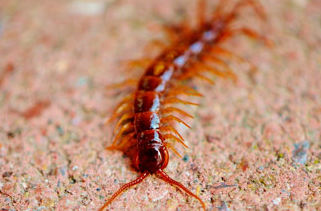
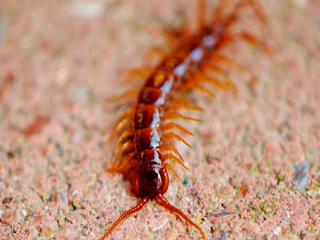
Added clickable images on particular_avistamiento
-When clicking an image, it's displayed bigger on a better resolution.

Added example images

diff --git a/scripts/particular_avistamiento.js b/scripts/particular_avistamiento.js
@@ -1,28 +1,28 @@
 const temp_main_table_info = {  // For some reason I have to display the table as there were more than 1 avistamiento,
     // but with the same date, I didn't understand that requirement but well, 'avistamientos' is a list to achieve that.
     "row1":{"fecha":"2021-03-29 13:21", "region":"Región Metropolitana de Santiago", "comuna":"La Florida", "sector":"Vicuña Mackena",
-        "nombre":"Kuroba Kaito", "email":"j", "celular":"+56 9 1234 4567",
+        "nombre":"Kuroba Kaito", "email":"kuroba@kaito.kid", "celular":"+56 9 1234 4567",
         "avistamientos":[
-            {"tipo":"insecto", "estado":"vivo", "fotos":[]}
+            {"tipo":"insecto", "estado":"vivo", "fotos":["../images/example/chinita.PNG"]}
         ]},
     "row2":{"fecha":"2021-03-27 10:03", "region":"Región Metropolitana de Santiago", "comuna":"Providencia", "sector":"Plaza Italia",
-        "nombre":"Edogawa Conan", "email":"j", "celular":"+56 9 2345 5671",
+        "nombre":"Edogawa Conan", "email":"edogawa@conan.jp", "celular":"+56 9 2345 5671",
         "avistamientos":[
-            {"tipo":"arácnido", "estado":"vivo", "fotos":[]}
+            {"tipo":"arácnido", "estado":"vivo", "fotos":["../images/example/laquetengaña.PNG"]}
         ]},
     "row3":{"fecha":"2021-03-26 22:30", "region":"Región Metropolitana de Santiago", "comuna":"Santiago", "sector":"Parque Almagro",
-        "nombre":"Heiji Hattori", "email":"j", "celular":"+56 9 3456 6712",
+        "nombre":"Heiji Hattori", "email":"heiji@hattori.jp", "celular":"+56 9 3456 6712",
         "avistamientos":[
-            {"tipo":"insecto", "estado":"desconocido", "fotos":[]}
+            {"tipo":"insecto", "estado":"desconocido", "fotos":["../images/example/polisha.PNG"]}
         ]},
     "row4":{"fecha":"2021-03-24 21:53", "region":"Región Metropolitana de Santiago", "comuna":"Ñuñoa", "sector":"Plaza Ñuñoa",
         "nombre":"Vermouth", "email":"j", "celular":"+56 9 4567 7123",
         "avistamientos":[
-            {"tipo":"miriápodo", "estado":"vivo", "fotos":[]}]},
+            {"tipo":"miriápodo", "estado":"vivo", "fotos":["../images/example/100patas.PNG"]}]},
     "row5":{"fecha":"2021-03-24 19:30", "region":"Región Metropolitana de Santiago", "comuna":"Puente Alto", "sector":"Los Álamos",
-        "nombre":"Akai Shuichi", "email":"j", "celular":"+56 9 5671 2345",
+        "nombre":"Akai Shuichi", "email":"akai@shu.jp", "celular":"+56 9 5671 2345",
         "avistamientos":[
-            {"tipo":"insecto", "estado":"vivo", "fotos":[]}
+            {"tipo":"insecto", "estado":"vivo", "fotos":["../images/example/polishadeux.PNG"]}
         ]}
 }
 
@@ -33,7 +33,8 @@ function fill_document() {
     let sector = document.getElementById("sector");
     let tipo = document.getElementById("tipo");
     let estado = document.getElementById("estado");
-    let fotos = document.getElementById("fotos");
+    let fotos_txt = document.getElementById("fotos_text");
+    let fotos_row = document.getElementById("fotos");
     let nombre = document.getElementById("nombre");
     let email = document.getElementById("email");
     let celular = document.getElementById("celular");
@@ -49,13 +50,58 @@ function fill_document() {
     }
     tipo.append("Tipo: " + temp_main_table_info[id]['avistamientos'][0]['tipo']);
     estado.append("Estado: " + temp_main_table_info[id]['avistamientos'][0]['estado']);
-    fotos.append("Fotos: " + temp_main_table_info[id]['avistamientos'][0]['fotos']);
+    fotos_txt.append("Fotos: ");
+    for (let i=0; i < temp_main_table_info[id]['avistamientos'][0]['fotos'].length; i++) {
+        let img = document.createElement("img");
+            img.alt = "Imagen del avistamiento";
+            img.src = temp_main_table_info[id]['avistamientos'][0]['fotos'][i];
+            img.addEventListener('click', function (e) {
+                display_big_img(temp_main_table_info[id]['avistamientos'][0]['fotos'][i]);
+            })
+        fotos_row.append(img);
+    }
+
     nombre.append("Nombre: " + temp_main_table_info[id]['nombre']);
     email.append("Correo: " + temp_main_table_info[id]['email']);
     if (temp_main_table_info[id]['sector'] !== "") {
         celular.append("Celular: " + temp_main_table_info[id]['celular']);
     }
 
+}
+
+function display_big_img (src) {
+    let modal_environment = document.createElement("div");
+    modal_environment.className = "modal_environment";
+    modal_environment.id = "modal_big_photo";
+        let modal_img = document.createElement("img");
+            modal_img.alt = "Imagen del avistamiento grande";
+            modal_img.className = "center";
+            let i = src.length-1;
+            while (i >= 0) {
+                if (src[i] === '.') {
+                    modal_img.src =
+                        src.substr(0, i)
+                        + "-big"
+                        + src.substr(i, src.length);  // "file.ext" -> "file-big.ext"
+                    break;
+                }
+                i--;
+            }
+        let close = document.createElement("button");
+            close.type = "button";
+            close.append("cerrar");
+            close.addEventListener('click', function () {
+                document.body.removeChild(modal_environment);
+            });
+            modal_environment.addEventListener('click', function close_modal_img (e) {
+                if (!modal_img.contains(e.target)) {
+                    // click outside the img
+                    document.body.removeChild(modal_environment);
+                    modal_environment.removeEventListener('click', close_modal_img);
+                }
+            })
+        modal_environment.append(modal_img, close);
+    document.body.append(modal_environment);
 }
 
 fill_document()

diff --git a/scripts/avistamiento_filler.js b/scripts/avistamiento_filler.js
@@ -2,24 +2,29 @@ const main_table_id = "main_table";
 
 const temp_main_table_info = {  // For some reason I have to display the table as there were more than 1 avistamiento,
     // but with the same date, I didn't understand that requirement but well, 'avistamientos' is a list to achieve that.
-    "row1":{"fecha":"2021-03-29 13:21", "comuna":"La Florida", "sector":"Vicuña Mackena", "nombre":"Kuroba Kaito", "email":"j", "celular":"+56 9 1234 4567",
+    "row1":{"fecha":"2021-03-29 13:21", "region":"Región Metropolitana de Santiago", "comuna":"La Florida", "sector":"Vicuña Mackena",
+        "nombre":"Kuroba Kaito", "email":"kuroba@kaito.kid", "celular":"+56 9 1234 4567",
         "avistamientos":[
-            {"tipo":"insecto", "estado":"vivo", "fotos":[]}
-            ]},
-    "row2":{"fecha":"2021-03-27 10:03", "comuna":"Providencia", "sector":"Plaza Italia", "nombre":"Edogawa Conan", "email":"j", "celular":"+56 9 2345 5671",
-        "avistamientos":[
-            {"tipo":"arácnido", "estado":"vivo", "fotos":[]}
+            {"tipo":"insecto", "estado":"vivo", "fotos":["../images/example/chinita.PNG"]}
         ]},
-    "row3":{"fecha":"2021-03-26 22:30", "comuna":"Santiago", "sector":"Parque Almagro", "nombre":"Heiji Hattori", "email":"j", "celular":"+56 9 3456 6712",
+    "row2":{"fecha":"2021-03-27 10:03", "region":"Región Metropolitana de Santiago", "comuna":"Providencia", "sector":"Plaza Italia",
+        "nombre":"Edogawa Conan", "email":"edogawa@conan.jp", "celular":"+56 9 2345 5671",
         "avistamientos":[
-            {"tipo":"insecto", "estado":"desconocido", "fotos":[]}
+            {"tipo":"arácnido", "estado":"vivo", "fotos":["../images/example/laquetengaña.PNG"]}
         ]},
-    "row4":{"fecha":"2021-03-24 21:53", "comuna":"Ñuñoa", "sector":"Plaza Ñuñoa", "nombre":"Vermouth", "email":"j", "celular":"+56 9 4567 7123",
+    "row3":{"fecha":"2021-03-26 22:30", "region":"Región Metropolitana de Santiago", "comuna":"Santiago", "sector":"Parque Almagro",
+        "nombre":"Heiji Hattori", "email":"heiji@hattori.jp", "celular":"+56 9 3456 6712",
         "avistamientos":[
-            {"tipo":"miriápodo", "estado":"vivo", "fotos":[]}]},
-    "row5":{"fecha":"2021-03-24 19:30", "comuna":"Puente Alto", "sector":"Los Álamos", "nombre":"Akai Shuichi", "email":"j", "celular":"+56 9 5671 2345",
+            {"tipo":"insecto", "estado":"desconocido", "fotos":["../images/example/polisha.PNG"]}
+        ]},
+    "row4":{"fecha":"2021-03-24 21:53", "region":"Región Metropolitana de Santiago", "comuna":"Ñuñoa", "sector":"Plaza Ñuñoa",
+        "nombre":"Vermouth", "email":"j", "celular":"+56 9 4567 7123",
         "avistamientos":[
-            {"tipo":"insecto", "estado":"vivo", "fotos":[]}
+            {"tipo":"miriápodo", "estado":"vivo", "fotos":["../images/example/100patas.PNG"]}]},
+    "row5":{"fecha":"2021-03-24 19:30", "region":"Región Metropolitana de Santiago", "comuna":"Puente Alto", "sector":"Los Álamos",
+        "nombre":"Akai Shuichi", "email":"akai@shu.jp", "celular":"+56 9 5671 2345",
+        "avistamientos":[
+            {"tipo":"insecto", "estado":"vivo", "fotos":["../images/example/polishadeux.PNG"]}
         ]}
 }
 

diff --git a/templates/particular_avistamiento.html b/templates/particular_avistamiento.html
@@ -5,6 +5,7 @@
     <title>Avistadapp - Ver Avistamiento</title>
     <link rel="stylesheet" type="text/css" href="../styles/styles.css">
     <link rel="stylesheet" type="text/css" href="../styles/styles2.css">
+    <link rel="stylesheet" type="text/css" href="../styles/modals.css">
 </head>
 <body>
 <div class="box round_square flex_col">
@@ -26,8 +27,9 @@
         <div id="tipo"></div>
         <div id="estado"></div>
     </div>
-    <div class="flex_row space">
-        <div id="fotos"></div>
+    <div class="flex_col space">
+        <div id="fotos_text"></div>
+        <div id="fotos" class="flex_row"></div>
     </div>
     <br>
 

diff --git a/templates/estadísticas.html b/templates/estadísticas.html
@@ -1,0 +1,10 @@
+<!DOCTYPE html>
+<html lang="en">
+<head>
+    <meta charset="UTF-8">
+    <title>Title</title>
+</head>
+<body>
+
+</body>
+</html>

diff --git a/README.md b/README.md
@@ -26,4 +26,5 @@ el formulario y se muestra un mensaje de que los datos fueron enviados.
 
 ## Listado de Avistamientos
 En esta página se muestran los avistamientos en una tabla. Al hacer click en una fila de la table, se redirecciona a
-una página con los detalles del avistamiento.
+una página con los detalles del avistamiento. En esta página, cada foto que se muestra es también clickeable, y al hacerlo
+se genera una vista de esta imagen en mayor resolución.

diff --git a/ChangeLog.md b/ChangeLog.md
@@ -6,6 +6,7 @@ Changelog
 
 Version 1.0
 -----------
+- (B.7) Added photo visualization on particular avistamientos, expanded by click on them.
 - (B.6) Added confirmation boxes, fixed several bugs with validations, and added pages with detailed avistamiento information.
 - (B.5) Added js form validation.
 - (B.4) Form structure and dynamic generation completed.
